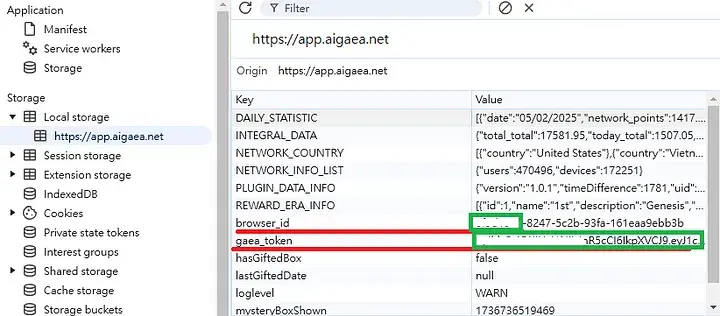
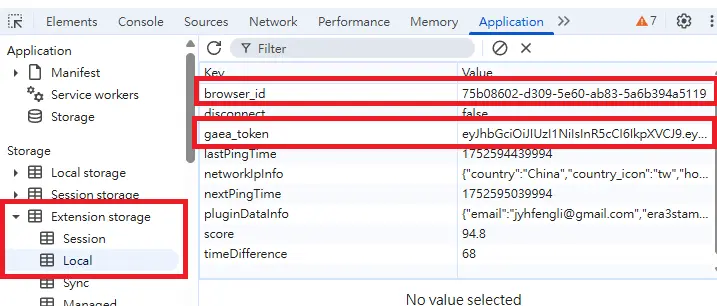
update news

diff --git a/_posts/2025-02-05-Gaea on Docker.md b/_posts/2025-02-05-Gaea on Docker.md
@@ -1,7 +1,7 @@
 ---
 title: "Gaea on Docker - Stopped Update"
 date: 2025-02-05
-updated: 2025-05-11
+updated: 2025-07-15
 categories: [bot]
 tags: [Docker, 網路賺錢, 掛機, 被動收入, 虛擬貨幣, 空投]
 description: "透過 Docker 掛機 Gaea，轉換瀏覽器資源為收益，快速啟動僅需提供 token 與 browser_id。"
@@ -13,11 +13,10 @@ lang: zh-TW
 ![Gaea 封面圖](/assets/images/bot/gaea/banner.webp)
 > 📢 **【更新通知】**
 >
-> 版本更新,設定檔變更,Docker image已更新
-> 設定檔變更請參照下方JSON檔案  
-> 
-> 才剛更新完沒多就，機掰雞發現自己的三個帳號都被封了，真是無語問蒼天  
-> 既然被封，維持機掰雞一貫作風，捨棄該項目不玩了 
+> 映像檔更新，browserId改成抓取整段
+> 機掰雞其中的兩個帳號居然恢復了，但一個帳號仍然是被封鎖
+> 既然恢復了就加減玩一下吧
+
 
 **Gaea** 是一個基於瀏覽器的去中心化資源共享平台，用戶可以透過提交瀏覽器資源（如瀏覽行為模擬、網路請求等），來參與資料處理與流量任務，並獲得對應獎勵。無需下載應用，登入即可掛機。
 
@@ -92,8 +91,7 @@ lang: zh-TW
 1. 使用 Chrome 登入 Gaea。
 2. 按下 F12 → 前往 Application。
 3. 點選左側 Local Storage。
-4. 找到 browser_id 與 gaea_token。
-5. Browser_ID 取前八碼，Token 複製整段。
+4. 找到 browser_id 與 gaea_token複製整段。
 ![Gaea token](/assets/images/bot/gaea/img_1.webp)
 
 ---

diff --git a/_posts/2025-05-09-News.md b/_posts/2025-05-09-News.md
@@ -16,6 +16,11 @@ pin: true
 
 ## 📅 更新紀錄
 
+- 📝 [Gaea on Docker](/posts/Gaea-on-Docker/)  
+  **📅 2025/07/15：** 映像檔更新，映像檔更新，browserId改成抓取整段(被封帳號奇蹟般恢復2個)
+  **📅 2025/05/11：** 更新版本，設定檔參數變更  
+  **📅 2025/05/11：** 才剛更新完沒多久，就發現帳戶被封了，慘  
+
 - 📝 [Assisterr on Docker](/posts/Assisterr-on-Docker/)  
   **📅 2025/07/15：** 更新映像檔   
   **📅 2025/06/10：** 版本更新  
@@ -153,9 +158,6 @@ pin: true
 - 📝 [Honeygain Auto-Claim on Docker](/posts/Honeygain-Claim-Bot-on-Docker/)  
   **📅 2025/05/14：** Medium文章搬移
 
-- 📝 [Gaea on Docker](/posts/Gaea-on-Docker/)  
-  **📅 2025/05/11：** 更新版本，設定檔參數變更  
-  **📅 2025/05/11：** 才剛更新完沒多久，就發現帳戶被封了，慘
 
 
 - 📝 [Distribute.AI on Docker](/posts/DistributeAI-on-Docker)  
